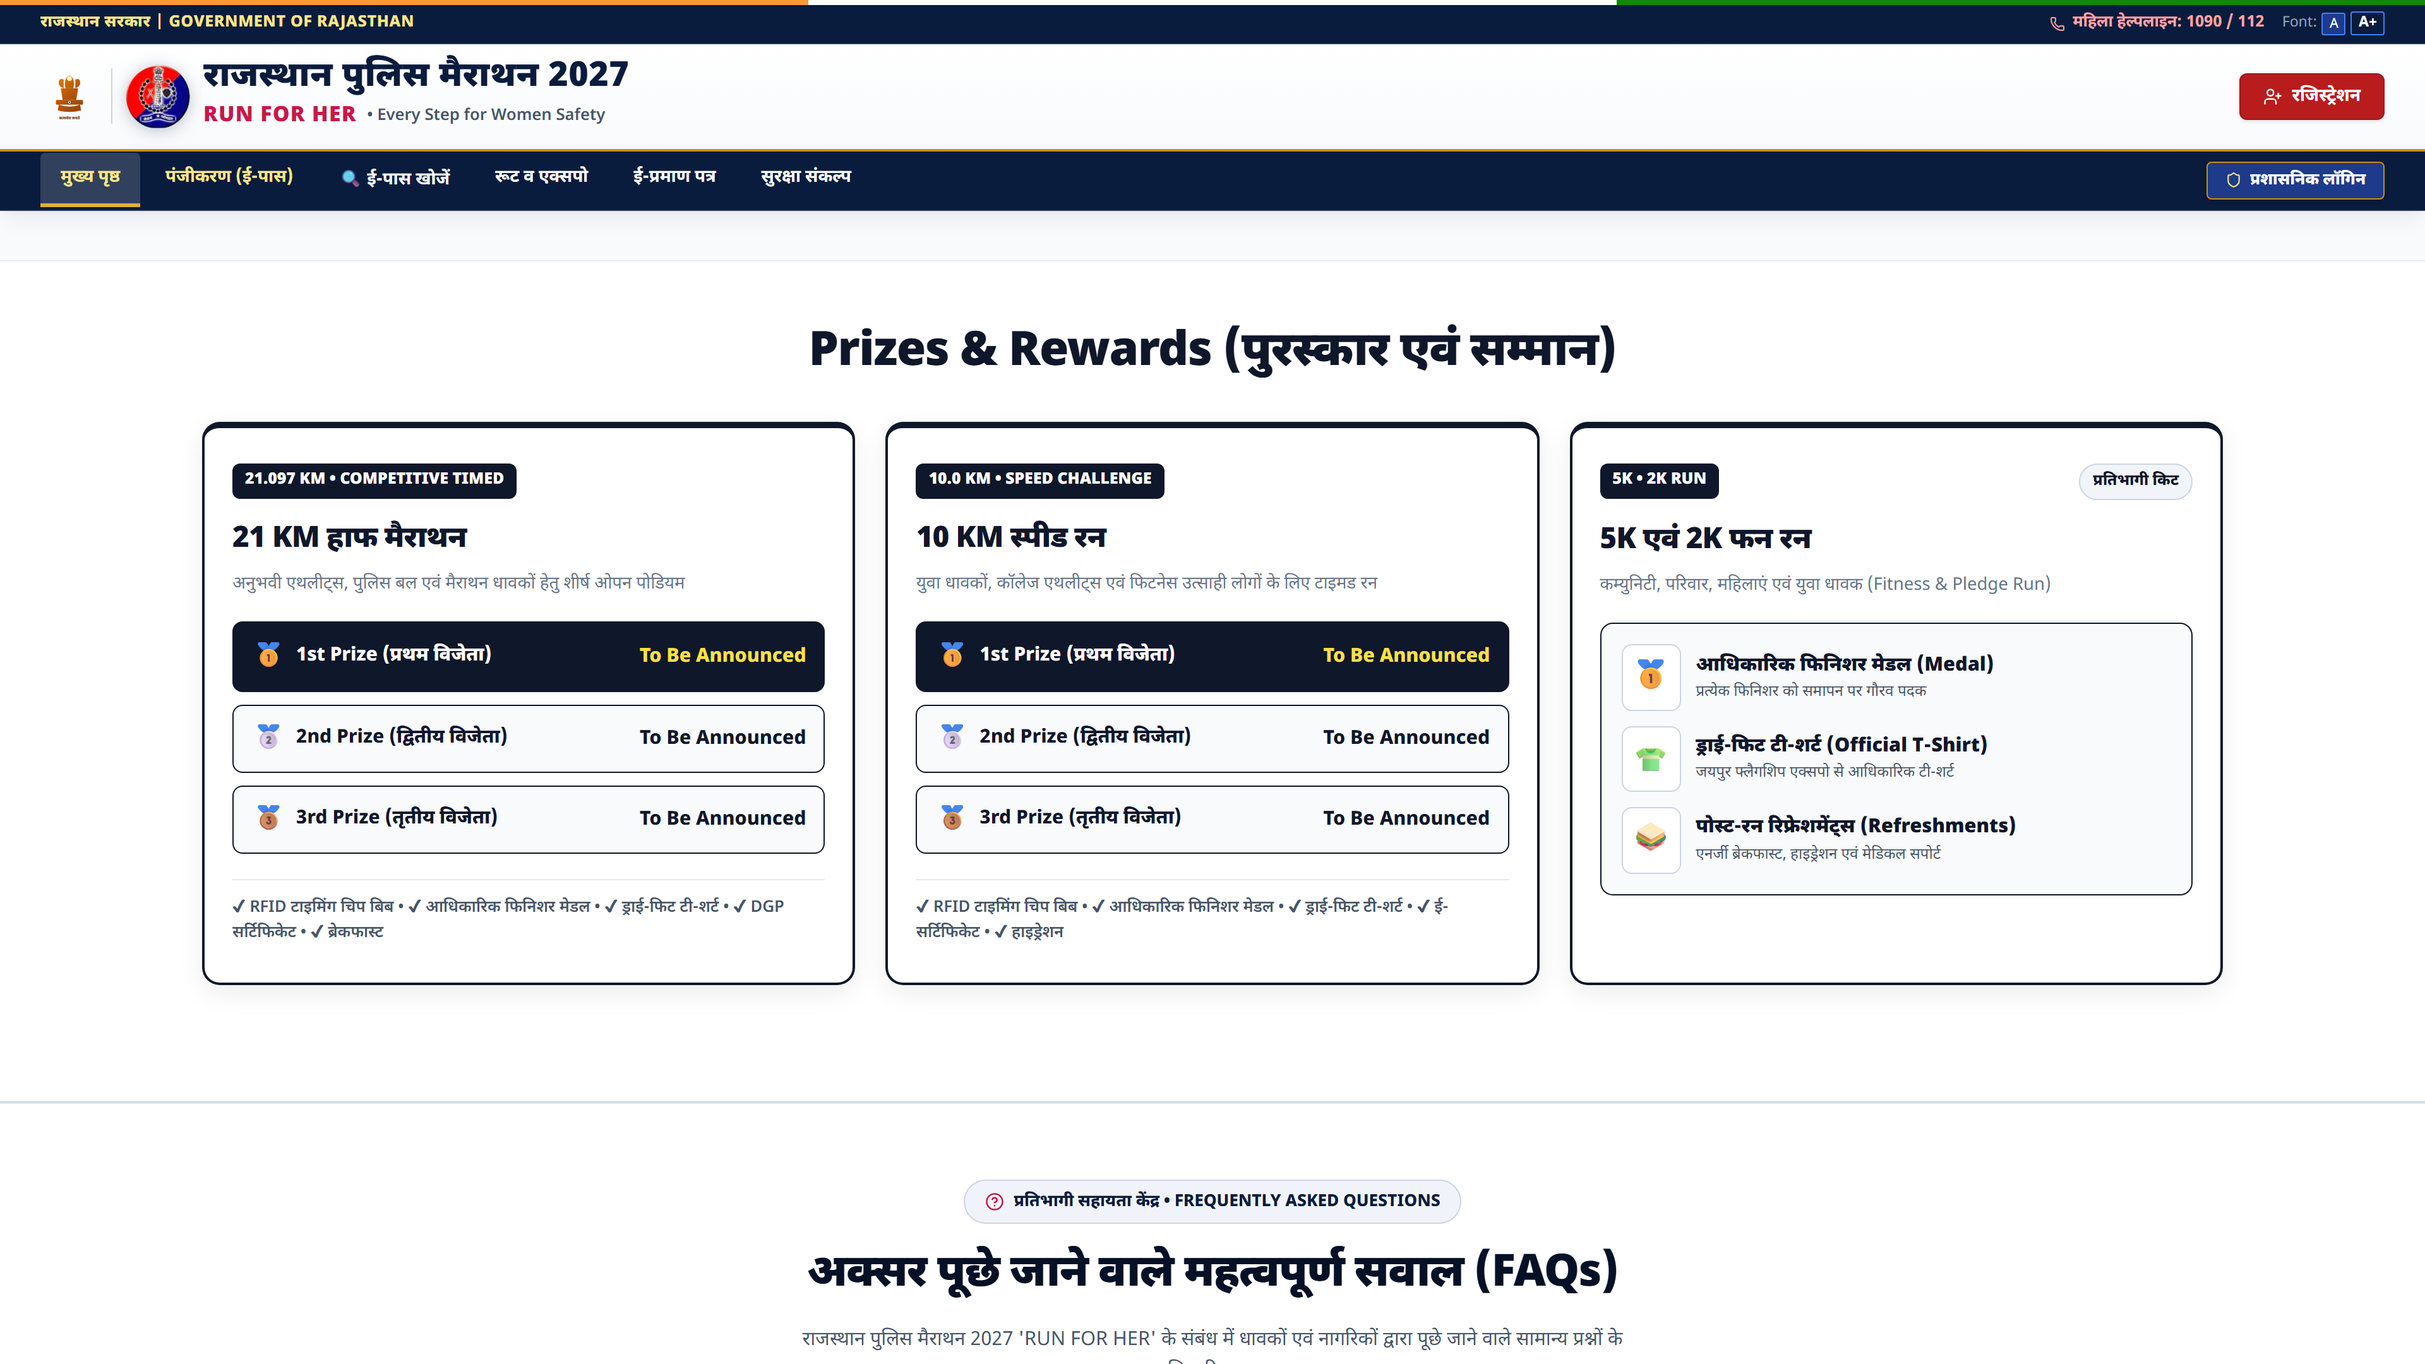
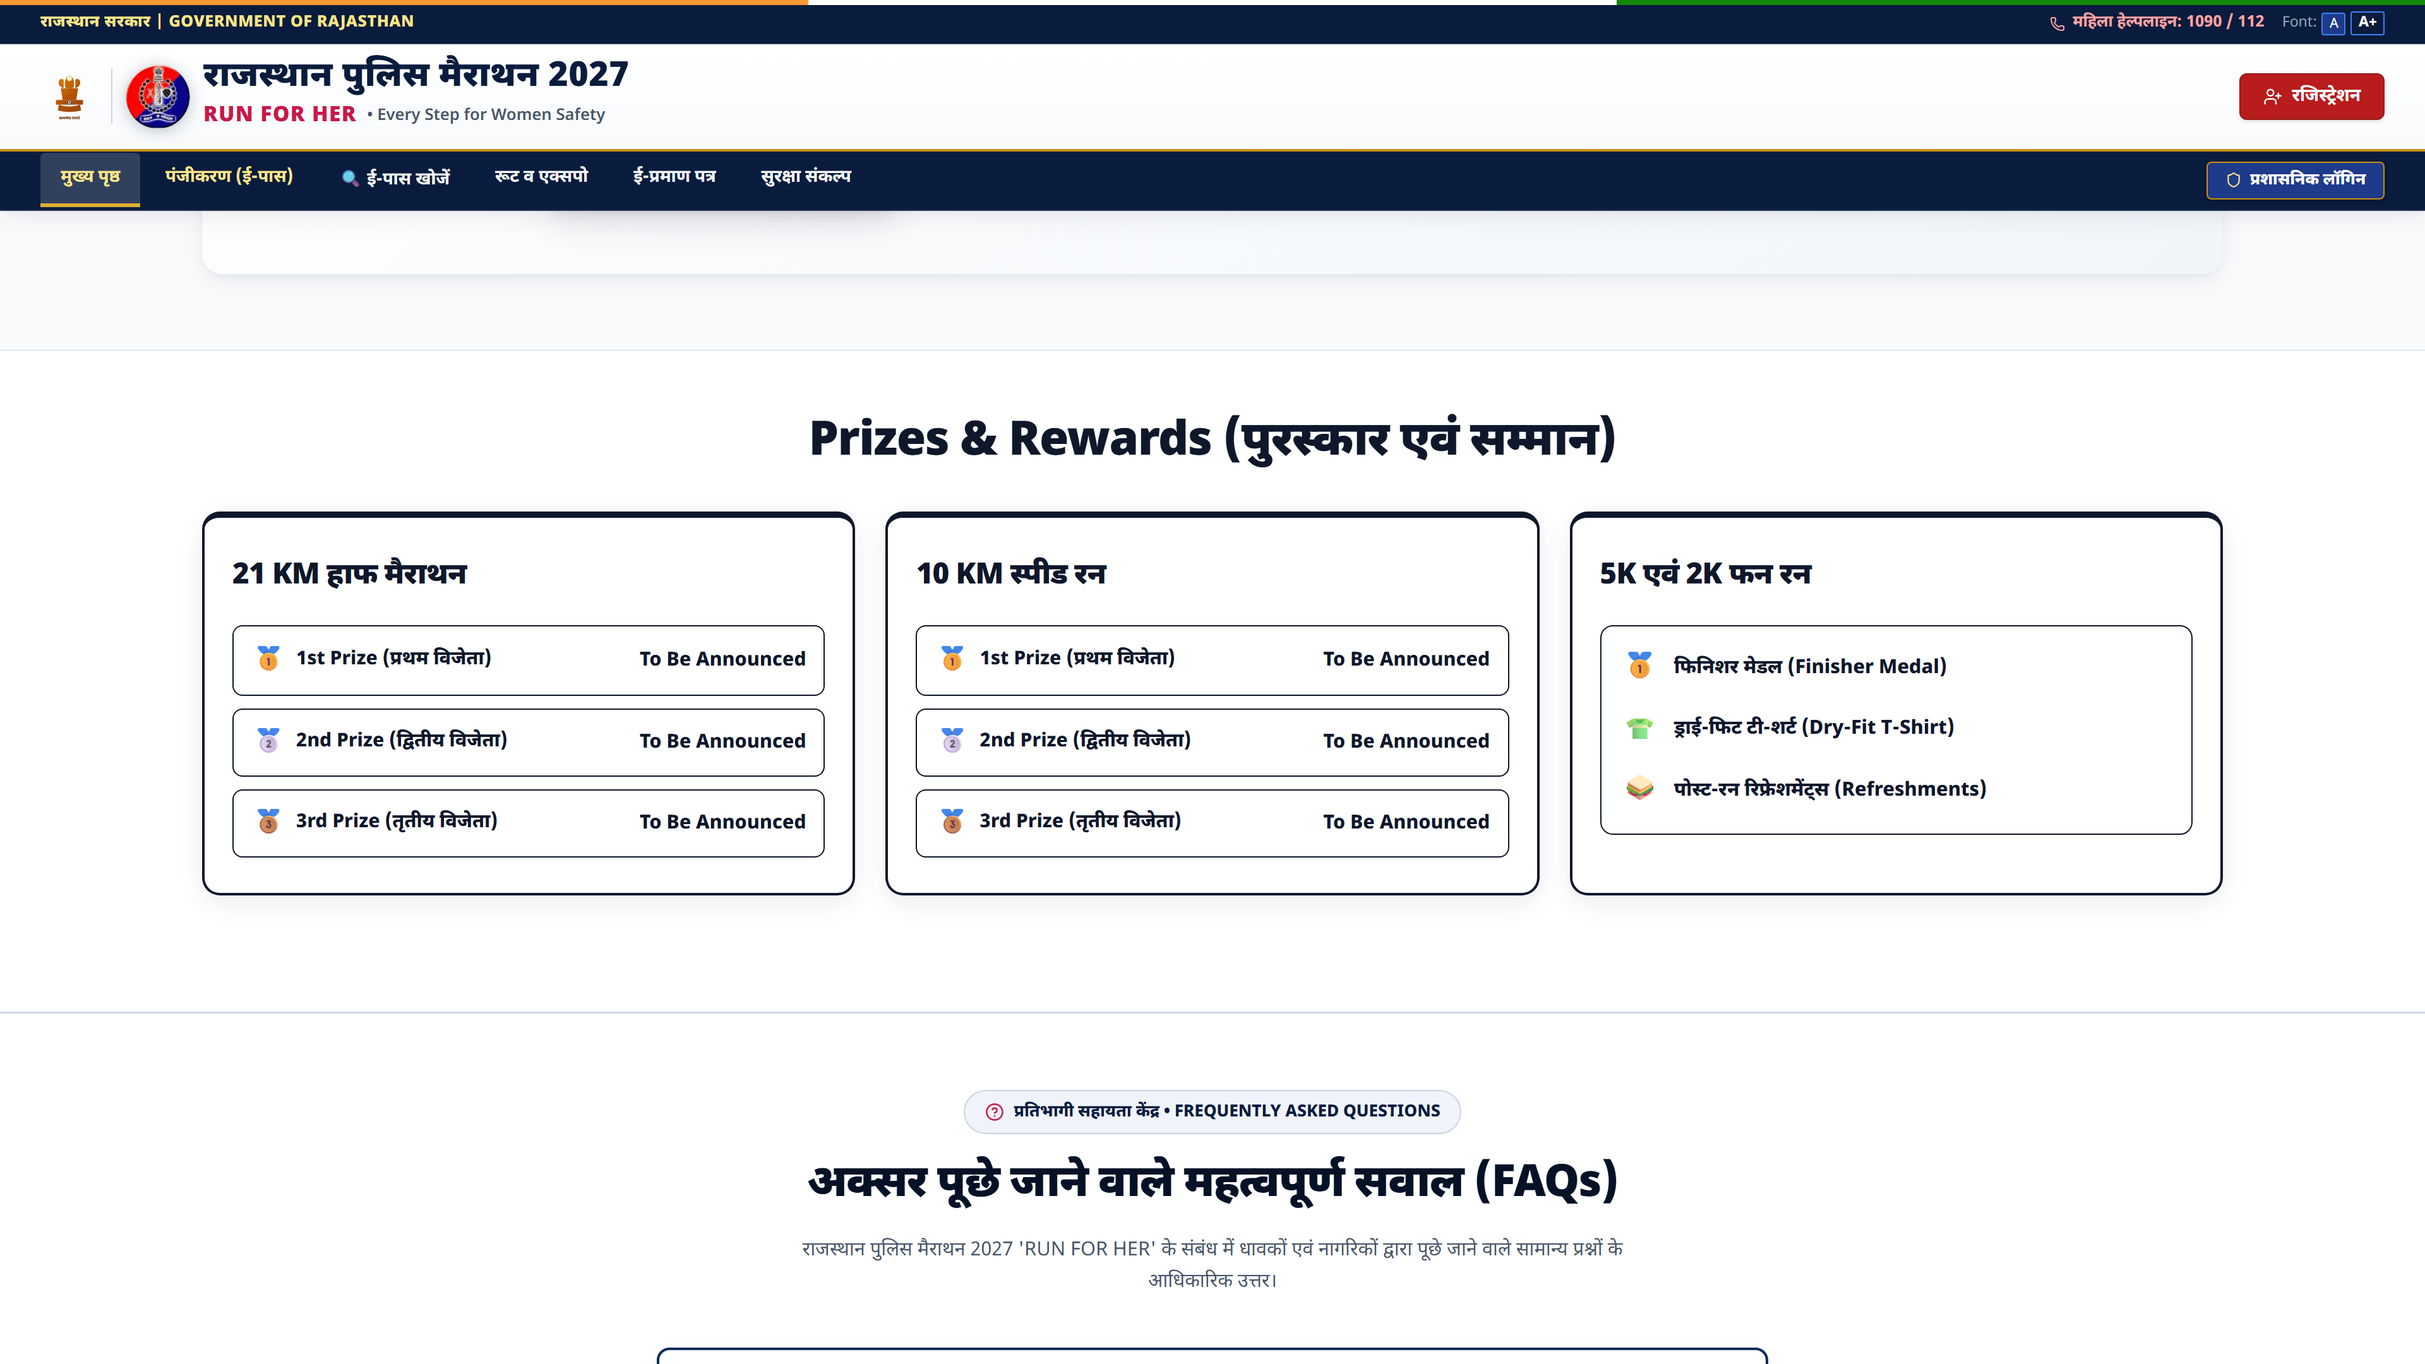
Refactor PrizePodiumSection to clean white theme, remove category subtext and perks clutter, update Finisher Medal text

diff --git a/src/components/PrizePodiumSection.jsx b/src/components/PrizePodiumSection.jsx
@@ -1,5 +1,4 @@
 import React from 'react';
-import { Trophy, Sparkles } from 'lucide-react';
 
 export function PrizePodiumSection({ onOpenRegister }) {
   return (
@@ -42,43 +41,26 @@ export function PrizePodiumSection({ onOpenRegister }) {
             position: 'relative'
           }}>
             <div>
-              <div style={{ display: 'flex', justifyContent: 'space-between', alignItems: 'flex-start', marginBottom: '14px' }}>
-                <span style={{
-                  background: '#0f172a',
-                  color: '#ffffff',
-                  fontWeight: 900,
-                  fontSize: '0.78rem',
-                  padding: '4px 10px',
-                  borderRadius: '6px'
-                }}>
-                  21.097 KM • COMPETITIVE TIMED
-                </span>
-              </div>
-
-              <h3 style={{ fontSize: '1.45rem', fontWeight: 900, color: '#0f172a', margin: '0 0 6px 0' }}>
+              <h3 style={{ fontSize: '1.45rem', fontWeight: 900, color: '#0f172a', margin: '0 0 20px 0' }}>
                 21 KM हाफ मैराथन
               </h3>
-              <p style={{ fontSize: '0.86rem', color: '#64748b', marginBottom: '18px' }}>
-                अनुभवी एथलीट्स, पुलिस बल एवं मैराथन धावकों हेतु शीर्ष ओपन पोडियम
-              </p>
 
-              {/* Podium Breakdown (Dark Black Theme) */}
-              <div style={{ display: 'flex', flexDirection: 'column', gap: '10px', marginBottom: '20px' }}>
+              {/* Podium Breakdown (Clean White Theme) */}
+              <div style={{ display: 'flex', flexDirection: 'column', gap: '10px' }}>
                 <div style={{
                   display: 'flex',
                   alignItems: 'center',
                   justifyContent: 'space-between',
                   padding: '11px 14px',
                   borderRadius: '8px',
-                  background: '#0f172a',
-                  border: '1.5px solid #0f172a',
-                  color: '#ffffff'
+                  background: '#ffffff',
+                  border: '1.5px solid #0f172a'
                 }}>
-                  <div style={{ display: 'flex', alignItems: 'center', gap: '8px', fontWeight: 800, fontSize: '0.94rem' }}>
+                  <div style={{ display: 'flex', alignItems: 'center', gap: '8px', fontWeight: 800, color: '#0f172a', fontSize: '0.94rem' }}>
                     <span style={{ fontSize: '1.25rem' }}>🥇</span>
                     <span>1st Prize (प्रथम विजेता)</span>
                   </div>
-                  <span style={{ fontWeight: 800, fontSize: '0.95rem', color: '#fde047' }}>To Be Announced</span>
+                  <span style={{ fontWeight: 800, fontSize: '0.95rem', color: '#0f172a' }}>To Be Announced</span>
                 </div>
 
                 <div style={{
@@ -87,7 +69,7 @@ export function PrizePodiumSection({ onOpenRegister }) {
                   justifyContent: 'space-between',
                   padding: '10px 14px',
                   borderRadius: '8px',
-                  background: '#f8fafc',
+                  background: '#ffffff',
                   border: '1.5px solid #0f172a'
                 }}>
                   <div style={{ display: 'flex', alignItems: 'center', gap: '8px', fontWeight: 800, color: '#0f172a', fontSize: '0.94rem' }}>
@@ -103,7 +85,7 @@ export function PrizePodiumSection({ onOpenRegister }) {
                   justifyContent: 'space-between',
                   padding: '10px 14px',
                   borderRadius: '8px',
-                  background: '#f8fafc',
+                  background: '#ffffff',
                   border: '1.5px solid #0f172a'
                 }}>
                   <div style={{ display: 'flex', alignItems: 'center', gap: '8px', fontWeight: 800, color: '#0f172a', fontSize: '0.94rem' }}>
@@ -112,11 +94,6 @@ export function PrizePodiumSection({ onOpenRegister }) {
                   </div>
                   <span style={{ fontWeight: 800, fontSize: '0.95rem', color: '#0f172a' }}>To Be Announced</span>
                 </div>
-              </div>
-
-              {/* Included Perks */}
-              <div style={{ borderTop: '1px solid #e2e8f0', paddingTop: '12px', fontSize: '0.8rem', color: '#475569', fontWeight: 600 }}>
-                ✔ RFID टाइमिंग चिप बिब • ✔ आधिकारिक फिनिशर मेडल • ✔ ड्राई-फिट टी-शर्ट • ✔ DGP सर्टिफिकेट • ✔ ब्रेकफास्ट
               </div>
             </div>
           </div>
@@ -135,43 +112,26 @@ export function PrizePodiumSection({ onOpenRegister }) {
             position: 'relative'
           }}>
             <div>
-              <div style={{ display: 'flex', justifyContent: 'space-between', alignItems: 'flex-start', marginBottom: '14px' }}>
-                <span style={{
-                  background: '#0f172a',
-                  color: '#ffffff',
-                  fontWeight: 900,
-                  fontSize: '0.78rem',
-                  padding: '4px 10px',
-                  borderRadius: '6px'
-                }}>
-                  10.0 KM • SPEED CHALLENGE
-                </span>
-              </div>
-
-              <h3 style={{ fontSize: '1.45rem', fontWeight: 900, color: '#0f172a', margin: '0 0 6px 0' }}>
+              <h3 style={{ fontSize: '1.45rem', fontWeight: 900, color: '#0f172a', margin: '0 0 20px 0' }}>
                 10 KM स्पीड रन
               </h3>
-              <p style={{ fontSize: '0.86rem', color: '#64748b', marginBottom: '18px' }}>
-                युवा धावकों, कॉलेज एथलीट्स एवं फिटनेस उत्साही लोगों के लिए टाइमड रन
-              </p>
 
-              {/* Podium Breakdown (Dark Black Theme) */}
-              <div style={{ display: 'flex', flexDirection: 'column', gap: '10px', marginBottom: '20px' }}>
+              {/* Podium Breakdown (Clean White Theme) */}
+              <div style={{ display: 'flex', flexDirection: 'column', gap: '10px' }}>
                 <div style={{
                   display: 'flex',
                   alignItems: 'center',
                   justifyContent: 'space-between',
                   padding: '11px 14px',
                   borderRadius: '8px',
-                  background: '#0f172a',
-                  border: '1.5px solid #0f172a',
-                  color: '#ffffff'
+                  background: '#ffffff',
+                  border: '1.5px solid #0f172a'
                 }}>
-                  <div style={{ display: 'flex', alignItems: 'center', gap: '8px', fontWeight: 800, fontSize: '0.94rem' }}>
+                  <div style={{ display: 'flex', alignItems: 'center', gap: '8px', fontWeight: 800, color: '#0f172a', fontSize: '0.94rem' }}>
                     <span style={{ fontSize: '1.25rem' }}>🥇</span>
                     <span>1st Prize (प्रथम विजेता)</span>
                   </div>
-                  <span style={{ fontWeight: 800, fontSize: '0.95rem', color: '#fde047' }}>To Be Announced</span>
+                  <span style={{ fontWeight: 800, fontSize: '0.95rem', color: '#0f172a' }}>To Be Announced</span>
                 </div>
 
                 <div style={{
@@ -180,7 +140,7 @@ export function PrizePodiumSection({ onOpenRegister }) {
                   justifyContent: 'space-between',
                   padding: '10px 14px',
                   borderRadius: '8px',
-                  background: '#f8fafc',
+                  background: '#ffffff',
                   border: '1.5px solid #0f172a'
                 }}>
                   <div style={{ display: 'flex', alignItems: 'center', gap: '8px', fontWeight: 800, color: '#0f172a', fontSize: '0.94rem' }}>
@@ -196,7 +156,7 @@ export function PrizePodiumSection({ onOpenRegister }) {
                   justifyContent: 'space-between',
                   padding: '10px 14px',
                   borderRadius: '8px',
-                  background: '#f8fafc',
+                  background: '#ffffff',
                   border: '1.5px solid #0f172a'
                 }}>
                   <div style={{ display: 'flex', alignItems: 'center', gap: '8px', fontWeight: 800, color: '#0f172a', fontSize: '0.94rem' }}>
@@ -205,11 +165,6 @@ export function PrizePodiumSection({ onOpenRegister }) {
                   </div>
                   <span style={{ fontWeight: 800, fontSize: '0.95rem', color: '#0f172a' }}>To Be Announced</span>
                 </div>
-              </div>
-
-              {/* Included Perks */}
-              <div style={{ borderTop: '1px solid #e2e8f0', paddingTop: '12px', fontSize: '0.8rem', color: '#475569', fontWeight: 600 }}>
-                ✔ RFID टाइमिंग चिप बिब • ✔ आधिकारिक फिनिशर मेडल • ✔ ड्राई-फिट टी-शर्ट • ✔ ई-सर्टिफिकेट • ✔ हाइड्रेशन
               </div>
             </div>
           </div>
@@ -228,69 +183,38 @@ export function PrizePodiumSection({ onOpenRegister }) {
             position: 'relative'
           }}>
             <div>
-              <div style={{ display: 'flex', justifyContent: 'space-between', alignItems: 'flex-start', marginBottom: '14px' }}>
-                <span style={{
-                  background: '#0f172a',
-                  color: '#ffffff',
-                  fontWeight: 900,
-                  fontSize: '0.78rem',
-                  padding: '4px 10px',
-                  borderRadius: '6px'
-                }}>
-                  5K • 2K RUN
-                </span>
-                <span style={{
-                  background: '#f1f5f9',
-                  color: '#0f172a',
-                  fontWeight: 800,
-                  fontSize: '0.76rem',
-                  padding: '4px 10px',
-                  borderRadius: '20px',
-                  border: '1px solid #cbd5e1'
-                }}>
-                  प्रतिभागी किट
-                </span>
-              </div>
-
-              <h3 style={{ fontSize: '1.45rem', fontWeight: 900, color: '#0f172a', margin: '0 0 6px 0' }}>
+              <h3 style={{ fontSize: '1.45rem', fontWeight: 900, color: '#0f172a', margin: '0 0 20px 0' }}>
                 5K एवं 2K फन रन
               </h3>
-              <p style={{ fontSize: '0.86rem', color: '#64748b', marginBottom: '18px' }}>
-                कम्युनिटी, परिवार, महिलाएं एवं युवा धावक (Fitness & Pledge Run)
-              </p>
 
-              {/* Perks Highlights Box (Dark Black Theme) */}
+              {/* Perks Highlights Box (Clean White Theme) */}
               <div style={{
-                background: '#f8fafc',
+                background: '#ffffff',
                 border: '1.5px solid #0f172a',
                 borderRadius: '10px',
                 padding: '16px',
-                marginBottom: '20px',
                 display: 'flex',
                 flexDirection: 'column',
-                gap: '12px'
+                gap: '14px'
               }}>
                 <div style={{ display: 'flex', alignItems: 'center', gap: '12px' }}>
-                  <span style={{ fontSize: '1.5rem', background: '#ffffff', padding: '6px', borderRadius: '8px', border: '1px solid #cbd5e1' }}>🥇</span>
-                  <div>
-                    <div style={{ fontWeight: 900, color: '#0f172a', fontSize: '0.96rem' }}>आधिकारिक फिनिशर मेडल (Medal)</div>
-                    <div style={{ fontSize: '0.76rem', color: '#475569' }}>प्रत्येक फिनिशर को समापन पर गौरव पदक</div>
+                  <span style={{ fontSize: '1.35rem' }}>🥇</span>
+                  <div style={{ fontWeight: 800, color: '#0f172a', fontSize: '0.96rem' }}>
+                    फिनिशर मेडल (Finisher Medal)
                   </div>
                 </div>
 
                 <div style={{ display: 'flex', alignItems: 'center', gap: '12px' }}>
-                  <span style={{ fontSize: '1.5rem', background: '#ffffff', padding: '6px', borderRadius: '8px', border: '1px solid #cbd5e1' }}>👕</span>
-                  <div>
-                    <div style={{ fontWeight: 900, color: '#0f172a', fontSize: '0.96rem' }}>ड्राई-फिट टी-शर्ट (Official T-Shirt)</div>
-                    <div style={{ fontSize: '0.76rem', color: '#475569' }}>जयपुर फ्लैगशिप एक्सपो से आधिकारिक टी-शर्ट</div>
+                  <span style={{ fontSize: '1.35rem' }}>👕</span>
+                  <div style={{ fontWeight: 800, color: '#0f172a', fontSize: '0.96rem' }}>
+                    ड्राई-फिट टी-शर्ट (Dry-Fit T-Shirt)
                   </div>
                 </div>
 
                 <div style={{ display: 'flex', alignItems: 'center', gap: '12px' }}>
-                  <span style={{ fontSize: '1.5rem', background: '#ffffff', padding: '6px', borderRadius: '8px', border: '1px solid #cbd5e1' }}>🥪</span>
-                  <div>
-                    <div style={{ fontWeight: 900, color: '#0f172a', fontSize: '0.96rem' }}>पोस्ट-रन रिफ्रेशमेंट्स (Refreshments)</div>
-                    <div style={{ fontSize: '0.76rem', color: '#475569' }}>एनर्जी ब्रेकफास्ट, हाइड्रेशन एवं मेडिकल सपोर्ट</div>
+                  <span style={{ fontSize: '1.35rem' }}>🥪</span>
+                  <div style={{ fontWeight: 800, color: '#0f172a', fontSize: '0.96rem' }}>
+                    पोस्ट-रन रिफ्रेशमेंट्स (Refreshments)
                   </div>
                 </div>
               </div>
